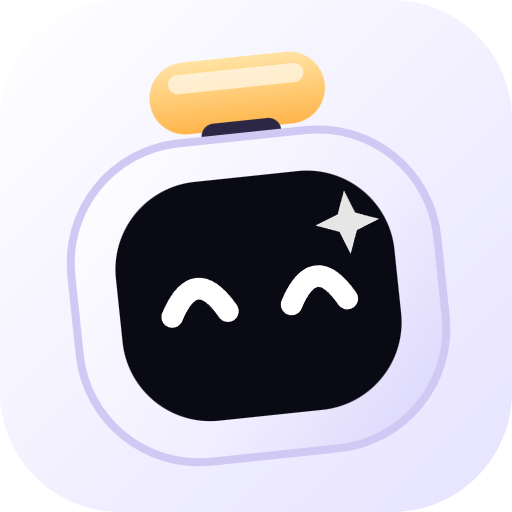
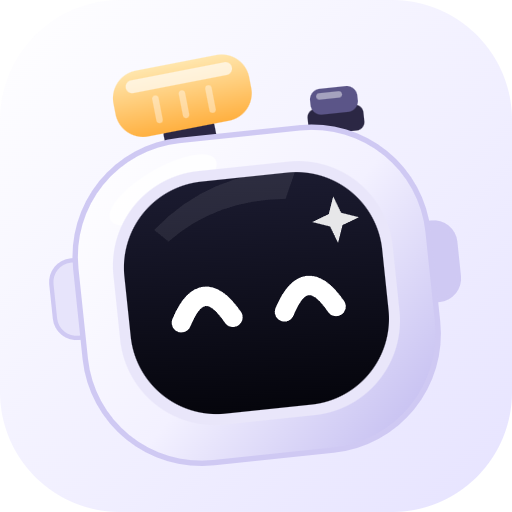
feat(brand): mascot redesign closer to the 3D reference and readable as a camera
- head: bezelled glossy screen, soft 3D shading, flash lamp (with ridges) left of centre, shutter button on the right, strap lugs
- "DO" scene now shows the whole character (torso with a print slot, legs, chunky shoes, arms): the polaroid is printed from the belly, handed to the left hand, then shared in sparkles
- favicon, apple icon and brand exports re-rendered from the same geometry

diff --git a/src/components/brand/Mascot.tsx b/src/components/brand/Mascot.tsx
@@ -1,23 +1,29 @@
 import { useId } from "react";
 
-// The STUDIODO mascot: a little camera-robot. A dark screen for a face (two happy arcs), a flash lamp on top, white body.
-// Brand idea "STUDIO..DO": the studio is the place, the mascot is the DO. It captures (flash), prints (a polaroid slides out) and
-// shares (sparkles fly). Pure SVG + CSS (see "Mascot" in globals.css), so it stays crisp at any size and costs no image requests.
-// Every animation is switched off by prefers-reduced-motion.
+// The STUDIODO mascot: a little camera-robot. A glossy dark screen for a face (two happy arcs), a flash lamp and a shutter button on top,
+// strap lugs on the sides, a soft white body. Brand idea "STUDIO..DO": the studio is the place, the mascot is the DO. It captures
+// (flash), prints (a polaroid comes out of its belly) and shares (sparkles fly). Pure SVG + CSS (see "Mascot" in globals.css), so it stays
+// crisp at any size and costs no image requests. Every animation is switched off by prefers-reduced-motion.
 
 const SPARKLE = "M0 -12 L3.2 -3.2 L12 0 L3.2 3.2 L0 12 L-3.2 3.2 L-12 0 L-3.2 -3.2 Z";
+const RIM = "#cfc9f3";
 
 function Defs({ id }: { id: string }) {
   return (
     <defs>
-      <linearGradient id={`${id}-body`} x1="40" y1="60" x2="200" y2="210" gradientUnits="userSpaceOnUse">
+      {/* soft 3D body: bright top-left, lavender shade bottom-right */}
+      <linearGradient id={`${id}-body`} x1="44" y1="60" x2="200" y2="214" gradientUnits="userSpaceOnUse">
         <stop offset="0" stopColor="#ffffff" />
-        <stop offset="0.6" stopColor="#f0eeff" />
-        <stop offset="1" stopColor="#d9d4fb" />
+        <stop offset="0.5" stopColor="#f3f1ff" />
+        <stop offset="1" stopColor="#bdb6ee" />
+      </linearGradient>
+      <linearGradient id={`${id}-screen`} x1="0" y1="0" x2="0" y2="1">
+        <stop offset="0" stopColor="#1b1b30" />
+        <stop offset="1" stopColor="#05050c" />
       </linearGradient>
       <linearGradient id={`${id}-lamp`} x1="0" y1="0" x2="0" y2="1">
-        <stop offset="0" stopColor="#ffe3a3" />
-        <stop offset="1" stopColor="#ffb54a" />
+        <stop offset="0" stopColor="#ffe6ad" />
+        <stop offset="1" stopColor="#ffb040" />
       </linearGradient>
       <radialGradient id={`${id}-glow`}>
         <stop offset="0" stopColor="#ffd37a" stopOpacity="0.95" />
@@ -27,25 +33,39 @@ function Defs({ id }: { id: string }) {
   );
 }
 
-/** The head, drawn in a 240x240 box. `still` freezes the idle loop (used where motion would distract, e.g. tiny favicons). */
+/** The head, drawn in a 240x240 box. `flashKey` > 0 restarts one camera-flash burst each time it changes. */
 function Head({ id, flashKey = 0 }: { id: string; flashKey?: number }) {
   return (
     <g transform="rotate(-6 120 130)">
-      <g className="m-lamp">
-        {/* key restarts the one-shot burst each time the parent flashes */}
-        <circle key={flashKey} className={flashKey ? "m-burst" : "m-glow"} cx="120" cy="43" r="46" fill={`url(#${id}-glow)`} />
-        <rect x="86" y="30" width="68" height="26" rx="13" fill={`url(#${id}-lamp)`} />
-        <rect x="94" y="34" width="52" height="7" rx="3.5" fill="#fff" opacity="0.6" />
+      {/* shutter button (top right): reads as "camera" at a glance */}
+      <rect x="152" y="50" width="26" height="12" rx="4" fill="#2b2744" />
+      <rect x="154" y="41" width="22" height="12" rx="5" fill="#5b5588" />
+      <rect x="157" y="43" width="12" height="3" rx="1.5" fill="#fff" opacity="0.45" />
+      {/* flash lamp (top left of centre), tilted a little */}
+      <g className="m-lamp" transform="rotate(-5 96 44)">
+        <circle key={flashKey} className={flashKey ? "m-burst" : "m-glow"} cx="96" cy="42" r="46" fill={`url(#${id}-glow)`} />
+        <rect x="84" y="50" width="24" height="12" rx="4" fill="#2b2744" />
+        <rect x="64" y="22" width="64" height="31" rx="13" fill={`url(#${id}-lamp)`} />
+        <rect x="71" y="26" width="50" height="6" rx="3" fill="#fff" opacity="0.65" />
+        <rect x="82" y="35" width="3" height="13" rx="1.5" fill="#fff" opacity="0.4" />
+        <rect x="94.5" y="35" width="3" height="13" rx="1.5" fill="#fff" opacity="0.4" />
+        <rect x="107" y="35" width="3" height="13" rx="1.5" fill="#fff" opacity="0.4" />
       </g>
-      <rect x="102" y="52" width="36" height="14" rx="5" fill="#2b2744" />
-      <rect x="38" y="58" width="164" height="150" rx="54" fill={`url(#${id}-body)`} stroke="#cfc9f3" strokeWidth="2.5" />
-      <rect x="58" y="76" width="124" height="112" rx="40" fill="#0a0a14" />
-      <rect x="58" y="76" width="124" height="112" rx="40" fill="none" stroke="#fff" strokeOpacity="0.14" strokeWidth="2" />
+      {/* strap lugs */}
+      <rect x="26" y="108" width="22" height="36" rx="10" fill="#e7e4fb" stroke={RIM} strokeWidth="2" />
+      <rect x="192" y="108" width="22" height="36" rx="10" fill="#cfc9f3" stroke={RIM} strokeWidth="2" />
+      {/* body */}
+      <rect x="38" y="58" width="164" height="150" rx="54" fill={`url(#${id}-body)`} stroke={RIM} strokeWidth="2.5" />
+      <ellipse cx="82" cy="80" rx="28" ry="10" fill="#fff" opacity="0.85" transform="rotate(-24 82 80)" />
+      {/* screen with a light bezel and a glossy streak */}
+      <rect x="55" y="73" width="130" height="118" rx="44" fill="#e9e6fa" />
+      <rect x="60" y="78" width="120" height="108" rx="40" fill={`url(#${id}-screen)`} />
+      <path d="M76 98 q28 -24 68 -21 l-6 13 q-32 -3 -56 14 z" fill="#fff" opacity="0.08" />
       <g className="m-eyes">
         <path d="M84 142 q12 -22 24 0" fill="none" stroke="#fff" strokeWidth="9" strokeLinecap="round" />
         <path d="M132 142 q12 -22 24 0" fill="none" stroke="#fff" strokeWidth="9" strokeLinecap="round" />
       </g>
-      <path className="m-spark" d={SPARKLE} transform="translate(160 100) scale(0.9)" fill="#fff" opacity="0.9" />
+      <path className="m-spark" d={SPARKLE} transform="translate(160 102) scale(0.9)" fill="#fff" opacity="0.9" />
     </g>
   );
 }
@@ -54,7 +74,7 @@ function Head({ id, flashKey = 0 }: { id: string; flashKey?: number }) {
 export function MascotHead({ className = "", flashKey = 0, title }: { className?: string; flashKey?: number; title?: string }) {
   const id = useId().replace(/:/g, "");
   return (
-    <svg viewBox="20 18 200 200" className={`mascot ${className}`} role={title ? "img" : undefined} aria-label={title} aria-hidden={title ? undefined : true}>
+    <svg viewBox="16 14 208 204" className={`mascot ${className}`} role={title ? "img" : undefined} aria-label={title} aria-hidden={title ? undefined : true}>
       <Defs id={id} />
       <g className="m-float"><Head id={id} flashKey={flashKey} /></g>
     </svg>
@@ -65,7 +85,7 @@ export function MascotHead({ className = "", flashKey = 0, title }: { className?
 export function Logomark({ size = 34 }: { size?: number }) {
   const id = useId().replace(/:/g, "");
   return (
-    <svg viewBox="20 18 200 200" width={size} height={size} className="mascot m-logo" aria-hidden="true">
+    <svg viewBox="16 14 208 204" width={size} height={size} className="mascot m-logo" aria-hidden="true">
       <Defs id={id} />
       <Head id={id} />
     </svg>
@@ -73,36 +93,51 @@ export function Logomark({ size = 34 }: { size?: number }) {
 }
 
 /**
- * The signature loop: Capture (flash), Print (a polaroid slides out), Share (it flies off in sparkles), with a caption that changes in step.
- * One 8 s CSS timeline drives everything so the pieces can never drift apart.
+ * The signature loop, with the whole character: Capture (the lamp flashes), Print (a polaroid comes out of its belly and into its hand),
+ * Share (it flies off in sparkles), with a caption that changes in step. One 8 s CSS timeline drives everything so the pieces never drift.
  */
 export function MascotDo({ className = "" }: { className?: string }) {
   const id = useId().replace(/:/g, "");
   return (
     <div className={`m-do relative mx-auto w-full max-w-[320px] select-none ${className}`} aria-hidden="true">
-      <svg viewBox="0 0 300 300" className="mascot block w-full">
+      <svg viewBox="0 0 300 310" className="mascot block w-full">
         <Defs id={id} />
-        <ellipse cx="150" cy="276" rx="78" ry="9" fill="#000" opacity="0.1" />
-        <g transform="translate(30 20) scale(0.95)">
+        <ellipse cx="150" cy="296" rx="82" ry="9" fill="#000" opacity="0.1" />
+        {/* legs and chunky shoes */}
+        <rect x="124" y="236" width="14" height="30" rx="6" fill="#2b2744" />
+        <rect x="162" y="236" width="14" height="30" rx="6" fill="#2b2744" />
+        <ellipse cx="124" cy="276" rx="28" ry="13" fill="#fff" stroke={RIM} strokeWidth="2" />
+        <ellipse cx="176" cy="276" rx="28" ry="13" fill="#fff" stroke={RIM} strokeWidth="2" />
+        <rect x="98" y="283" width="52" height="5" rx="2.5" fill="#cfc9f3" />
+        <rect x="150" y="283" width="52" height="5" rx="2.5" fill="#cfc9f3" />
+        {/* torso with the print slot */}
+        <rect x="100" y="166" width="100" height="78" rx="30" fill={`url(#${id}-body)`} stroke={RIM} strokeWidth="2.5" />
+        <rect x="126" y="206" width="48" height="8" rx="4" fill="#2b2744" />
+        <rect className="m-slot" x="130" y="209" width="40" height="2.5" rx="1.25" fill="#ffd37a" />
+        {/* arms: the left one holds the photo, the right one rests */}
+        <path d="M104 196 q-24 2 -34 18" fill="none" stroke="#fff" strokeWidth="15" strokeLinecap="round" />
+        <path d="M104 196 q-24 2 -34 18" fill="none" stroke={RIM} strokeWidth="2" strokeLinecap="round" opacity="0.6" />
+        <path d="M196 196 q22 8 24 34" fill="none" stroke="#fff" strokeWidth="15" strokeLinecap="round" />
+        <circle cx="220" cy="234" r="12" fill="#fff" stroke={RIM} strokeWidth="2" />
+        {/* the head, tucked onto the torso */}
+        <g transform="translate(36 -6) scale(0.87)">
           <g className="m-float"><Head id={id} /></g>
         </g>
-        {/* the polaroid: printed out of the front, then shared */}
-        <g className="m-photo">
-          <g transform="translate(0 12) rotate(7 150 236)">
-            <rect x="106" y="190" width="88" height="96" rx="7" fill="#fff" stroke="#cfc9f3" strokeWidth="2" />
-            <rect x="115" y="199" width="70" height="60" rx="4" fill="#0a0a14" />
-            <path d={SPARKLE} transform="translate(150 229) scale(1.4)" fill="#fff" className="m-spark" />
-            <rect x="124" y="268" width="38" height="6" rx="3" fill="#d9d4fb" />
+        {/* the polaroid: printed at the belly, handed to the left hand, then shared */}
+        <g transform="translate(66 206) rotate(-9)">
+          <g className="m-photo">
+            <rect x="-30" y="-34" width="60" height="70" rx="6" fill="#fff" stroke={RIM} strokeWidth="2" />
+            <rect x="-24" y="-28" width="48" height="46" rx="3.5" fill="#0a0a14" />
+            <path className="m-spark" d={SPARKLE} transform="translate(0 -5) scale(1.1)" fill="#fff" />
+            <rect x="-14" y="24" width="28" height="5" rx="2.5" fill="#d9d4fb" />
           </g>
         </g>
-        {/* little hands, always on top */}
-        <circle cx="96" cy="246" r="15" fill="#fff" stroke="#cfc9f3" strokeWidth="2" />
-        <circle cx="204" cy="246" r="15" fill="#fff" stroke="#cfc9f3" strokeWidth="2" />
+        <circle cx="62" cy="216" r="13" fill="#fff" stroke={RIM} strokeWidth="2" />
         {/* share sparkles */}
         <g className="m-share">
-          <path d={SPARKLE} transform="translate(214 110) scale(1)" fill="#7b78ff" />
-          <path d={SPARKLE} transform="translate(236 150) scale(0.6)" fill="#ff8fb8" />
-          <path d={SPARKLE} transform="translate(196 80) scale(0.55)" fill="#ffc46b" />
+          <path d={SPARKLE} transform="translate(222 96) scale(1)" fill="#7b78ff" />
+          <path d={SPARKLE} transform="translate(250 138) scale(0.6)" fill="#ff8fb8" />
+          <path d={SPARKLE} transform="translate(200 62) scale(0.55)" fill="#ffc46b" />
         </g>
       </svg>
       <div className="relative mt-1 h-8 text-center font-display text-xl font-semibold tracking-tight">

diff --git a/src/app/globals.css b/src/app/globals.css
@@ -580,6 +580,7 @@ a:hover .m-logo .m-spark { animation: m-twinkle 1.1s ease-in-out 1; }
 .m-do .m-glow { animation: m-do-flash 8s infinite; }
 .m-do .m-eyes { animation: m-do-blink 8s infinite; }
 .m-do .m-photo { transform-box: fill-box; transform-origin: center; animation: m-do-photo 8s infinite both; }
+.m-do .m-slot { animation: m-do-slot 8s infinite; }
 .m-do .m-share { transform-box: fill-box; transform-origin: center; animation: m-do-share 8s infinite both; }
 .m-do .m-cap { opacity: 0; }
 .m-do .m-cap-1 { animation: m-cap-1 8s infinite; }
@@ -588,12 +589,13 @@ a:hover .m-logo .m-spark { animation: m-twinkle 1.1s ease-in-out 1; }
 @keyframes m-do-flash { 0%, 10% { opacity: 0.3; transform: scale(1); } 14% { opacity: 1; transform: scale(2.2); } 22%, 100% { opacity: 0.3; transform: scale(1); } }
 @keyframes m-do-blink { 0%, 12%, 20%, 100% { transform: scaleY(1); } 15% { transform: scaleY(0.1); } }
 @keyframes m-do-photo {
-  0%, 30% { transform: translateY(46px); opacity: 0; }
+  0%, 30% { transform: translate(84px, 4px) scale(0.2); opacity: 0; }
   34% { opacity: 1; }
-  52%, 66% { transform: translateY(0); opacity: 1; }
-  86% { transform: translate(70px, -150px) scale(0.45) rotate(14deg); opacity: 0; }
-  100% { transform: translateY(46px); opacity: 0; }
+  52%, 66% { transform: translate(0, 0) scale(1); opacity: 1; }
+  86% { transform: translate(150px, -190px) scale(0.4) rotate(16deg); opacity: 0; }
+  100% { transform: translate(84px, 4px) scale(0.2); opacity: 0; }
 }
+@keyframes m-do-slot { 0%, 28%, 54%, 100% { opacity: 0.25; } 32%, 36%, 42%, 46%, 50% { opacity: 1; } 34%, 40%, 44%, 48% { opacity: 0.5; } }
 @keyframes m-do-share { 0%, 66% { opacity: 0; transform: scale(0.3); } 76% { opacity: 1; transform: scale(1.15); } 90%, 100% { opacity: 0; transform: scale(1.4) translate(10px, -14px); } }
 @keyframes m-cap-1 { 0%, 3% { opacity: 0; transform: translateY(6px); } 8%, 28% { opacity: 1; transform: none; } 33%, 100% { opacity: 0; transform: translateY(-6px); } }
 @keyframes m-cap-2 { 0%, 33% { opacity: 0; transform: translateY(6px); } 38%, 60% { opacity: 1; transform: none; } 65%, 100% { opacity: 0; transform: translateY(-6px); } }
